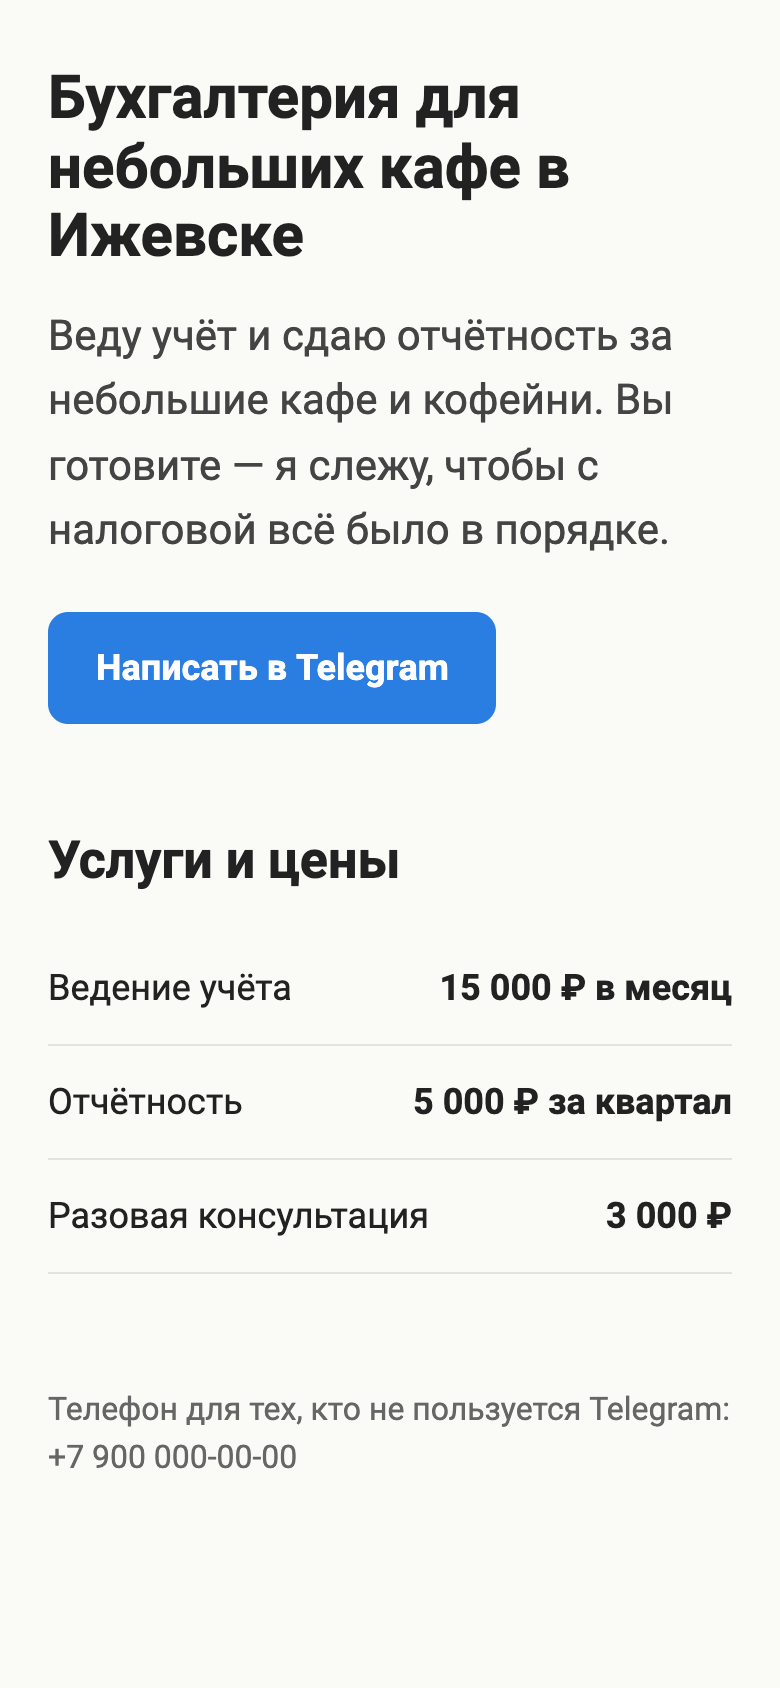
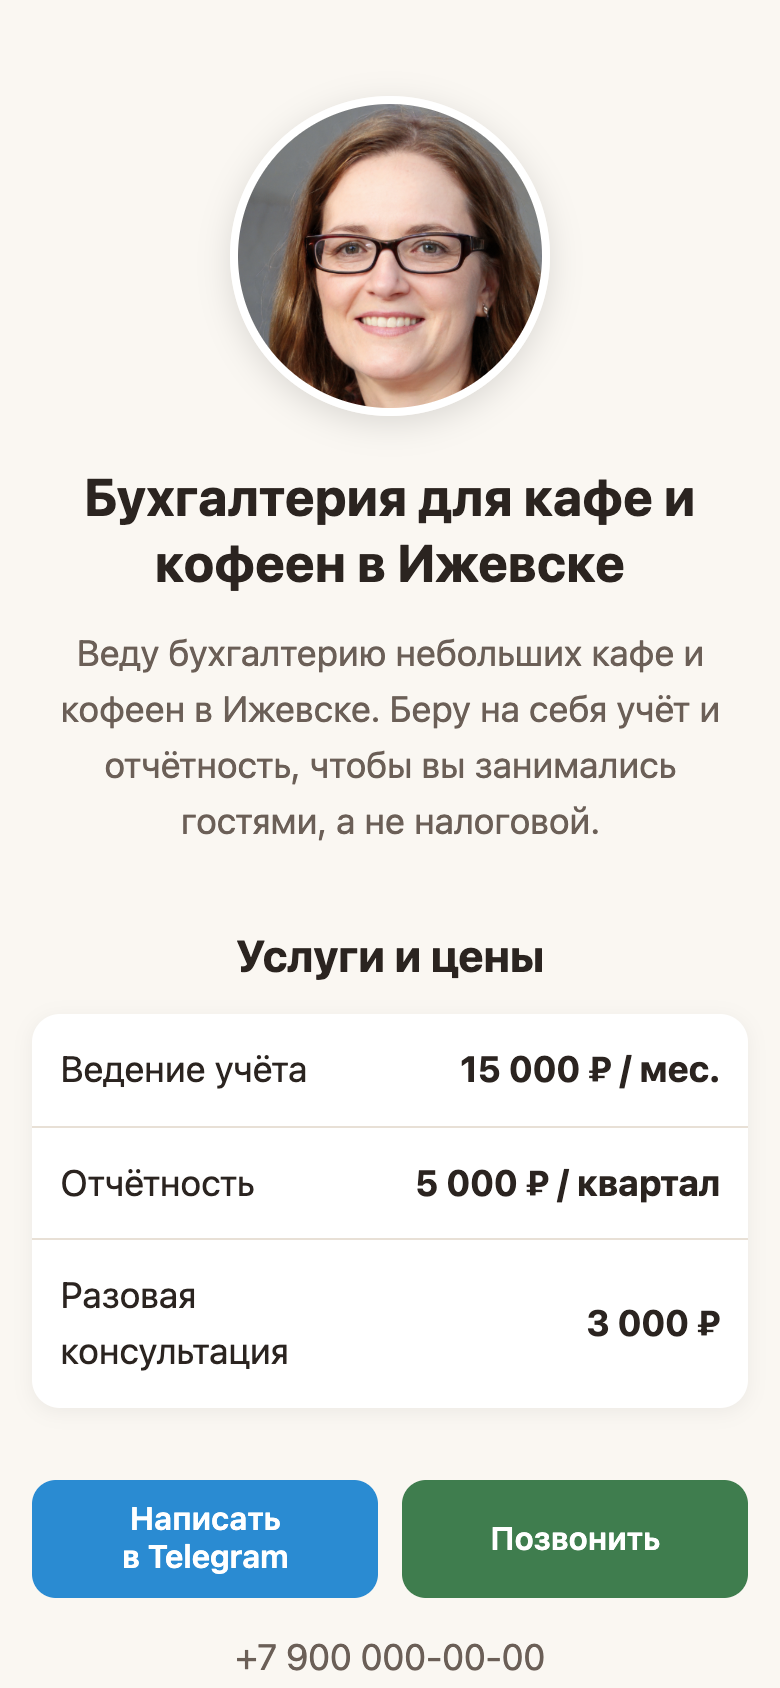
Rebuild steps four and six from real Claude Code runs
The page, calculator and form shots now come from the course prompts
sent in a clean VS Code profile. Step four puts photo.jpg in the folder
first and asks for a centred avatar, centred text, a services table and
Telegram and call buttons in one row. Step 4.2 covers a logo instead.

Changed region(s): [[0.0615, 0.0308, 0.9231, 0.5237], [0.0308, 0.5545, 0.9846, 1.0], [0.7385, 0.7701, 0.9231, 0.8009]]

diff --git a/theme/assets/wiki.css b/theme/assets/wiki.css
@@ -103,7 +103,7 @@ h1, h2, h3, p, ul, ol { margin: 0; }
 .results__grid { display: grid; grid-template-columns: repeat(3, minmax(0, 1fr)); gap: 20px; margin-top: 32px; }
 .result { display: flex; flex-direction: column; gap: 6px; padding: 14px 14px 20px; border: 1px solid var(--line); border-radius: 14px; background: var(--surface); text-decoration: none; transition: border-color 0.15s var(--ease), transform 0.15s var(--ease); }
 .result:hover { border-color: var(--line-strong); transform: translateY(-2px); }
-.result img { display: block; width: 100%; aspect-ratio: 4 / 3; object-fit: cover; object-position: top left; border-radius: 8px; border: 1px solid var(--line); margin-bottom: 10px; }
+.result img { display: block; width: 100%; aspect-ratio: 4 / 3; object-fit: cover; object-position: top center; border-radius: 8px; border: 1px solid var(--line); margin-bottom: 10px; }
 .result__step { font: 400 12px/1.4 var(--font-mono); letter-spacing: 0.06em; text-transform: uppercase; color: var(--muted-2); }
 .result strong { font-size: 18px; font-weight: 600; letter-spacing: -0.01em; }
 .result span:last-child { font-size: 15px; color: var(--ink-2); }

diff --git a/content/04-first-thing/page-about-your-business.md b/content/04-first-thing/page-about-your-business.md
@@ -5,7 +5,7 @@ title: "Страница о своём деле"
 description: "Первая вещь целиком: от пустой папки до страницы об услугах и ценах, которая открывается в браузере на вашем компьютере."
 step: "4"
 order: 1
-lead: "За этот материал получится страница о вашем деле: кто вы, что делаете, сколько стоит и как с вами связаться. Пока только на вашем компьютере."
+lead: "За этот материал получится страница о вашем деле: ваша фотография, кто вы, что делаете, сколько стоит и как с вами связаться. Пока только на вашем компьютере."
 author: "Антон Ложкин"
 author_url: "https://antonlozhkin.ru/"
 checked: "11 октября 2026"
@@ -14,7 +14,9 @@ tool: "Claude Code"
 
 ## Что получится
 
-Файл `index.html` в вашей папке. Двойной щелчок — и в браузере открывается страница о вашем деле.
+Файл `index.html` в вашей папке. Двойной щелчок — и в браузере открывается страница о вашем деле: наверху ваша
+фотография, под ней пара предложений о вас, таблица услуг с ценами и две кнопки — «Написать в Telegram» и
+«Позвонить».
 
 ## Что нужно
 
@@ -31,13 +33,23 @@ tool: "Claude Code"
 - чем вы занимаетесь — два предложения, как сказали бы знакомому;
 - три-пять услуг и цену каждой;
 - для кого это;
-- как с вами связаться.
+- ник в Telegram и телефон.
+
+И найдите свою фотографию: лицо крупно, светлый ровный фон. Подойдёт снимок с телефона.
 
 Это самая важная часть работы. Страницу Claude сделает за минуту; что на ней написать, знаете только вы.
 
-### 2. Откройте пустую папку
+### 2. Сделайте папку и положите в неё фото
 
-Создайте папку — например, `my-site` — и откройте её в [[chto-takoe-vs-code|VS Code]]: «File → Open Folder».
+1. Создайте папку — например, `my-site` на рабочем столе.
+2. Положите в неё фотографию. **Переименуйте файл в `photo.jpg`**: латиница, без пробелов, маленькими буквами.
+   Снимок с телефона называется вроде `IMG_4021.JPEG` — такое имя потом легко перепутать, а пробелы и русские буквы
+   в имени ломают картинку после выкладки в интернет.
+3. Откройте папку в [[chto-takoe-vs-code|VS Code]]: «File → Open Folder». В списке файлов слева должен быть виден
+   `photo.jpg`.
+
+Фото должно лежать именно в этой папке, а не на рабочем столе рядом с ней: на вашем компьютере страница покажет
+его откуда угодно, а в интернет уйдёт только содержимое папки.
 
 ### 3. Поставьте задачу
 
@@ -47,30 +59,52 @@ tool: "Claude Code"
 Обо мне: [два предложения]
 Услуги и цены: [список]
 Для кого: [одна фраза]
-Связь: кнопка «Написать в Telegram», ссылка t.me/[ваш ник]
+Telegram: t.me/[ваш ник]
+Телефон: [номер]
 
-Требования: светлый фон, крупный читаемый текст, без картинок.
-Страница должна нормально выглядеть на телефоне.
+Как расположить, сверху вниз, всё по центру страницы:
+1. Моя фотография из файла photo.jpg — круглая, как аватарка, диаметром около 160 точек,
+   не в полный размер.
+2. Под ней заголовок и два предложения обо мне, текст по центру.
+3. Таблица услуг: название слева, цена справа.
+4. Две кнопки рядом, в одну строку: «Написать в Telegram» и «Позвонить».
+   «Позвонить» на телефоне сразу набирает мой номер.
+
+Светлый фон, крупный читаемый текст. Страница должна нормально выглядеть на телефоне.
+Файл photo.jpg не меняй и не переименовывай.
 Всё в одном файле, без дополнительных программ и установок.
 Когда закончишь, скажи, какой файл открыть.
 ```
 
 Строка «всё в одном файле, без установок» важна: без неё Claude может построить конструкцию, которую потом
-трудно выложить в интернет.
+трудно выложить в интернет. Раскладка по пунктам — тоже: без неё он расставит блоки по-своему.
+
+![Вкладка Claude в VS Code: слева в папке my-site лежит photo.jpg, в поле ввода вписан запрос со сведениями о бухгалтере](/media/shots/vscode-stranica-zapros.png)
+
+*Папка `my-site` с одним файлом `photo.jpg` и запрос, заполненный за бухгалтера из примера в материале
+[[kak-postavit-zadachu|Как поставить задачу]].*
 
 ### 4. Откройте результат
 
+Claude спросит разрешения создать `index.html` — разрешите. Когда он закончит, слева рядом с фото появится
+`index.html`, а в разговоре — что получилось и какой файл открыть.
+
+![Слева в папке my-site — index.html и photo.jpg; справа Claude пишет, что страница готова, и перечисляет, что на ней сверху вниз](/media/shots/vscode-stranica-gotovo.png)
+
+*Claude пересказывает, что сделал, пункт за пунктом — сверьте с вашим запросом.*
+
 Найдите `index.html` в папке через обычный проводник и откройте двойным щелчком. Страница откроется в браузере.
 
-![Страница бухгалтера кафе: заголовок, два предложения о себе, синяя кнопка «Написать в Telegram» и список услуг с ценами](/media/shots/stranica-kompyuter.png)
+![Страница бухгалтера: круглое фото по центру, заголовок и два предложения по центру, таблица из трёх услуг с ценами, кнопки «Написать в Telegram» и «Позвонить» рядом](/media/shots/stranica-kompyuter.png)
 
-*Пример того, что получается по такому запросу: страница бухгалтера из примера в материале
-[[kak-postavit-zadachu|Как поставить задачу]].*
+*Страница, которую Claude сделал по запросу выше, без правок: фото, текст, таблица услуг и две кнопки в ряд.*
 
 ### 5. Проверьте
 
 - Все услуги и цены на месте и без ошибок?
-- Кнопка ведёт в ваш Telegram?
+- Кнопка «Написать в Telegram» ведёт в ваш Telegram, а «Позвонить» — на ваш номер?
+- Фото на месте? Если вместо него значок разорванной картинки — файл называется не `photo.jpg` или лежит не в
+  этой папке.
 - Текст ваш или Claude дописал от себя? Он любит добавлять «более десяти лет опыта» и «индивидуальный подход».
   Всё, чего вы не говорили, уберите:
 
@@ -84,9 +118,9 @@ tool: "Claude Code"
 Сузьте окно браузера до ширины ладони. Страница должна перестроиться в одну колонку, текст — остаться читаемым.
 Если что-то вылезает за край, опишите это Claude: что именно и где.
 
-![Та же страница на узком экране телефона: текст в одну колонку, кнопка и цены помещаются по ширине](/media/shots/stranica-telefon.png)
+![Та же страница на экране телефона: фото, текст и таблица по ширине экрана, две кнопки остались в одной строке](/media/shots/stranica-telefon.png)
 
-*Та же страница шириной с телефон: всё в одну колонку, ничего не уходит за край.*
+*Та же страница шириной с телефон: ничего не уходит за край, кнопки по-прежнему рядом.*
 
 ## Если не получилось
 

diff --git a/content/04-first-thing/your-texts-and-photos.md b/content/04-first-thing/your-texts-and-photos.md
@@ -5,7 +5,7 @@ title: "Свои тексты и фото"
 description: "Как менять текст на готовой странице, добавить свою фотографию или логотип и не сломать при этом остальное."
 step: "4"
 order: 2
-lead: "Страница готова, и теперь её нужно сделать своей: поправить формулировки, добавить фото и логотип."
+lead: "Страница готова, и теперь её нужно сделать своей: поправить формулировки, добавить логотип, заменить фото."
 author: "Антон Ложкин"
 author_url: "https://antonlozhkin.ru/"
 checked: "11 октября 2026"
@@ -34,19 +34,22 @@ tool: "Claude Code"
 Поправьте в любом редакторе, верните целиком и напишите: «вставь этот текст на страницу вместо прежнего, вид
 страницы не меняй».
 
-## Фото и логотип
+## Логотип и другие картинки
 
-1. Положите файл изображения **в ту же папку**, где лежит `index.html`. Назовите его латиницей и без пробелов:
-   `photo.jpg`, `logo.png`.
-2. Напишите Claude:
+Фотография уже на странице — её вы положили в папку в материале [[stranica-o-svoem-dele|Страница о своём деле]].
+Любая другая картинка добавляется так же:
+
+1. Положите файл **в ту же папку**, где лежат `index.html` и `photo.jpg`. Назовите его латиницей, без пробелов и
+   маленькими буквами: `logo.png`, `office.jpg`.
+2. Напишите Claude, что это за файл и где он должен стоять:
 
 ```
-В папке лежит photo.jpg — это моя фотография. Поставь её наверху страницы, рядом с двумя предложениями обо мне,
-круглой, небольшой. Остальное не трогай.
+В папке лежит logo.png — это мой логотип. Поставь его в самый верх страницы, над фотографией, по центру,
+высотой примерно с одну строку заголовка. Остальное не трогай.
 ```
 
-Изображение должно лежать в папке сайта. Если оно осталось на рабочем столе, на вашем компьютере страница его
-покажет, а после выкладки в интернет — нет.
+Заменить фотографию ещё проще: положите новый снимок в папку под тем же именем `photo.jpg`, поверх старого, и
+обновите страницу в браузере. Claude для этого не нужен.
 
 ## Тяжёлые фотографии
 

diff --git a/content/06-first-app/price-calculator.md b/content/06-first-app/price-calculator.md
@@ -51,7 +51,12 @@ tool: "Claude Code"
 Всё в том же файле, без дополнительных программ. Остальную страницу не трогай.
 ```
 
-![Блок «Сколько будет стоить»: поле с числом сотрудников, две галочки и итог 21 000 ₽ крупно](/media/shots/kalkulyator.png)
+![Разговор с Claude: он проверил формулу на пяти случаях, вывел суммы и описал, что видит клиент и как считается цена](/media/shots/vscode-kalkulyator-gotovo.png)
+
+*Claude сам прогнал формулу на нескольких случаях и написал, как считает. Это не отменяет вашей проверки — она в
+следующем шаге.*
+
+![Блок «Сколько это будет стоить»: 8 сотрудников, галочка у наёмных работников, итог 21 000 ₽ в месяц крупно](/media/shots/kalkulyator.png)
 
 *Калькулятор по правилу выше: 8 сотрудников и наёмные работники — 15 000 + 3 × 1 000 + 3 000 = 21 000.*
 

diff --git a/content/06-first-app/request-form.md b/content/06-first-app/request-form.md
@@ -45,6 +45,14 @@ https://t.me/[ваш ник]?text=[собранный текст], чтобы у
 
 Вместо `[ваш ник]` — ваше имя в Telegram без знака `@`.
 
+![Ответ Claude: пример собранного сообщения с расчётом из калькулятора и раздел «Что я решил сам, поправлю, если нужно иначе»](/media/shots/vscode-forma-gotovo.png)
+
+*Claude показал, какое сообщение получит бухгалтер, и отдельно перечислил, что решил сам.*
+
+Прочитайте раздел, где он пишет, что решил сам. Здесь он сделал способ связи необязательным: человек и так пишет
+вам в Telegram. Если вам нужно иначе — скажите одной фразой: «способ связи тоже обязательный, остальное не
+трогай».
+
 ### 2. Проверьте
 
 - Заполните форму и нажмите кнопку. Должен открыться Telegram с вашим же чатом и текстом в поле ввода.
